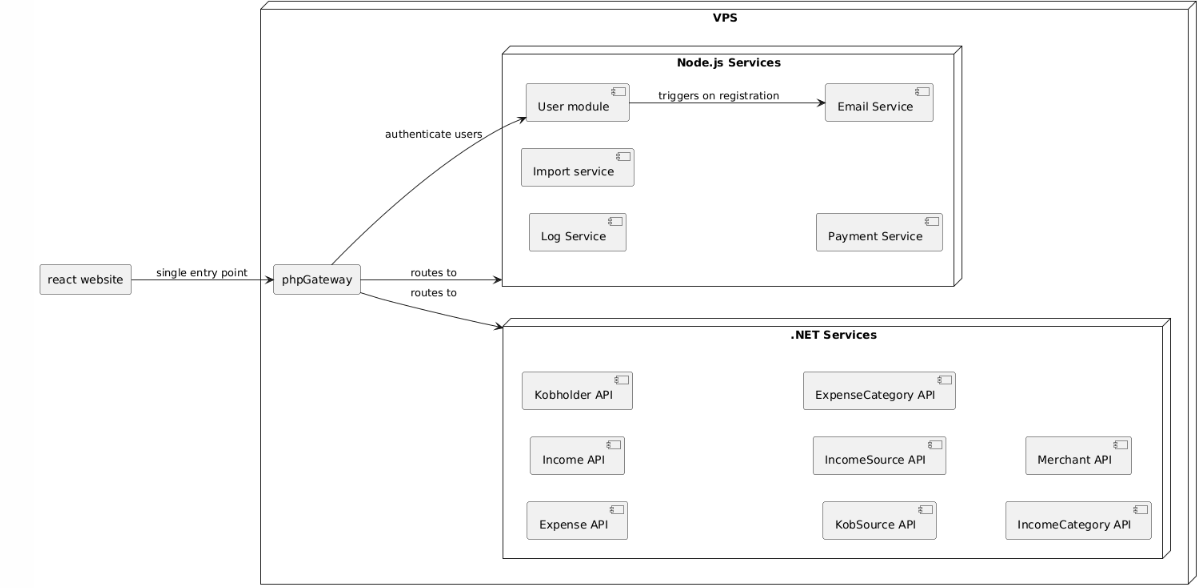
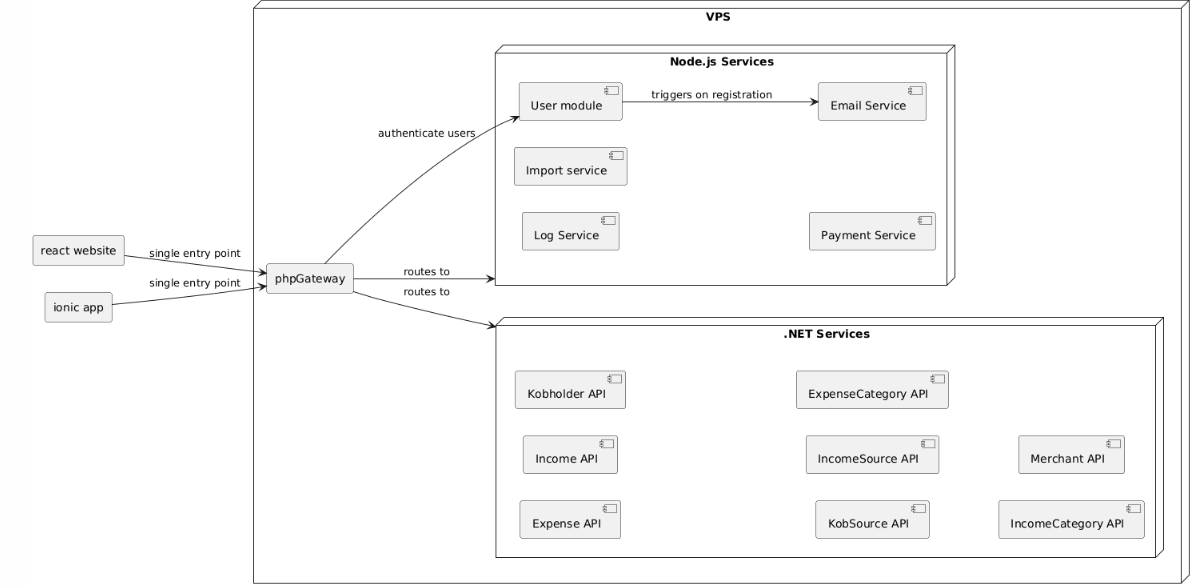
Add Ionic mobile client to routing/auth goal-state docs
Introduces the mobile app as a second client alongside the react
website, both routing through phpGateway as the single entry point.
Also updates the components diagram to show the target state (no
transitional react-website direct calls) and adds missing services
(Kobholder, Email, Payment) to the Node/.NET service lists.

diff --git a/components.md b/components.md
@@ -14,7 +14,7 @@ how requests are routed, and how services depend on data.
   Email Service, Payment Service. Independent services on the VPS.
 - **phpGateway** — currently handles authentication and grants access 
   to the .NET services.
-- **react website** — the frontend client.
+- **react website** — the frontend web client.
 
 ### Known transitional state
 
@@ -23,15 +23,21 @@ how requests are routed, and how services depend on data.
   end state.
 - `phpGateway` currently handles authentication itself, rather than 
   delegating to `userModule`.
+- The Ionic mobile app does not exist yet — it's part of the goal state 
+  only (see below).
 
 ## Goal: Routing & Auth
  
 ![Kobflow goal state - routing and auth](routing-and-auth.png)
 
 The target is for `phpGateway` to become the **single entry point** — 
-the react website no longer calls `.NET Services` or `Node.js Services` 
-directly. `phpGateway` also delegates authentication to `userModule` 
-instead of handling it itself.
+neither the react website nor the Ionic mobile app call `.NET Services` 
+or `Node.js Services` directly. `phpGateway` also delegates 
+authentication to `userModule` instead of handling it itself.
+
+This adds a second client to the picture: an **Ionic app** for mobile, 
+alongside the existing react website. Both route through `phpGateway` 
+the same way.
 
 This diagram covers routing and auth only. Data dependencies (which 
 service talks to which database) are intentionally left out — see 

diff --git a/_TODO.md b/_TODO.md
@@ -17,3 +17,6 @@ kobflow-wiki/
 │   ├── dev-containers.md
 │   └── claude-code.md      — CLAUDE.md rules, Plan Mode workflow
 └── project-tracking.md     — how Linear (Kuaminika team) maps to this wiki
+clients/
+├── web.md        — react website: stack, structure, conventions
+└── mobile.md      — ionic app: stack, structure, conventions
